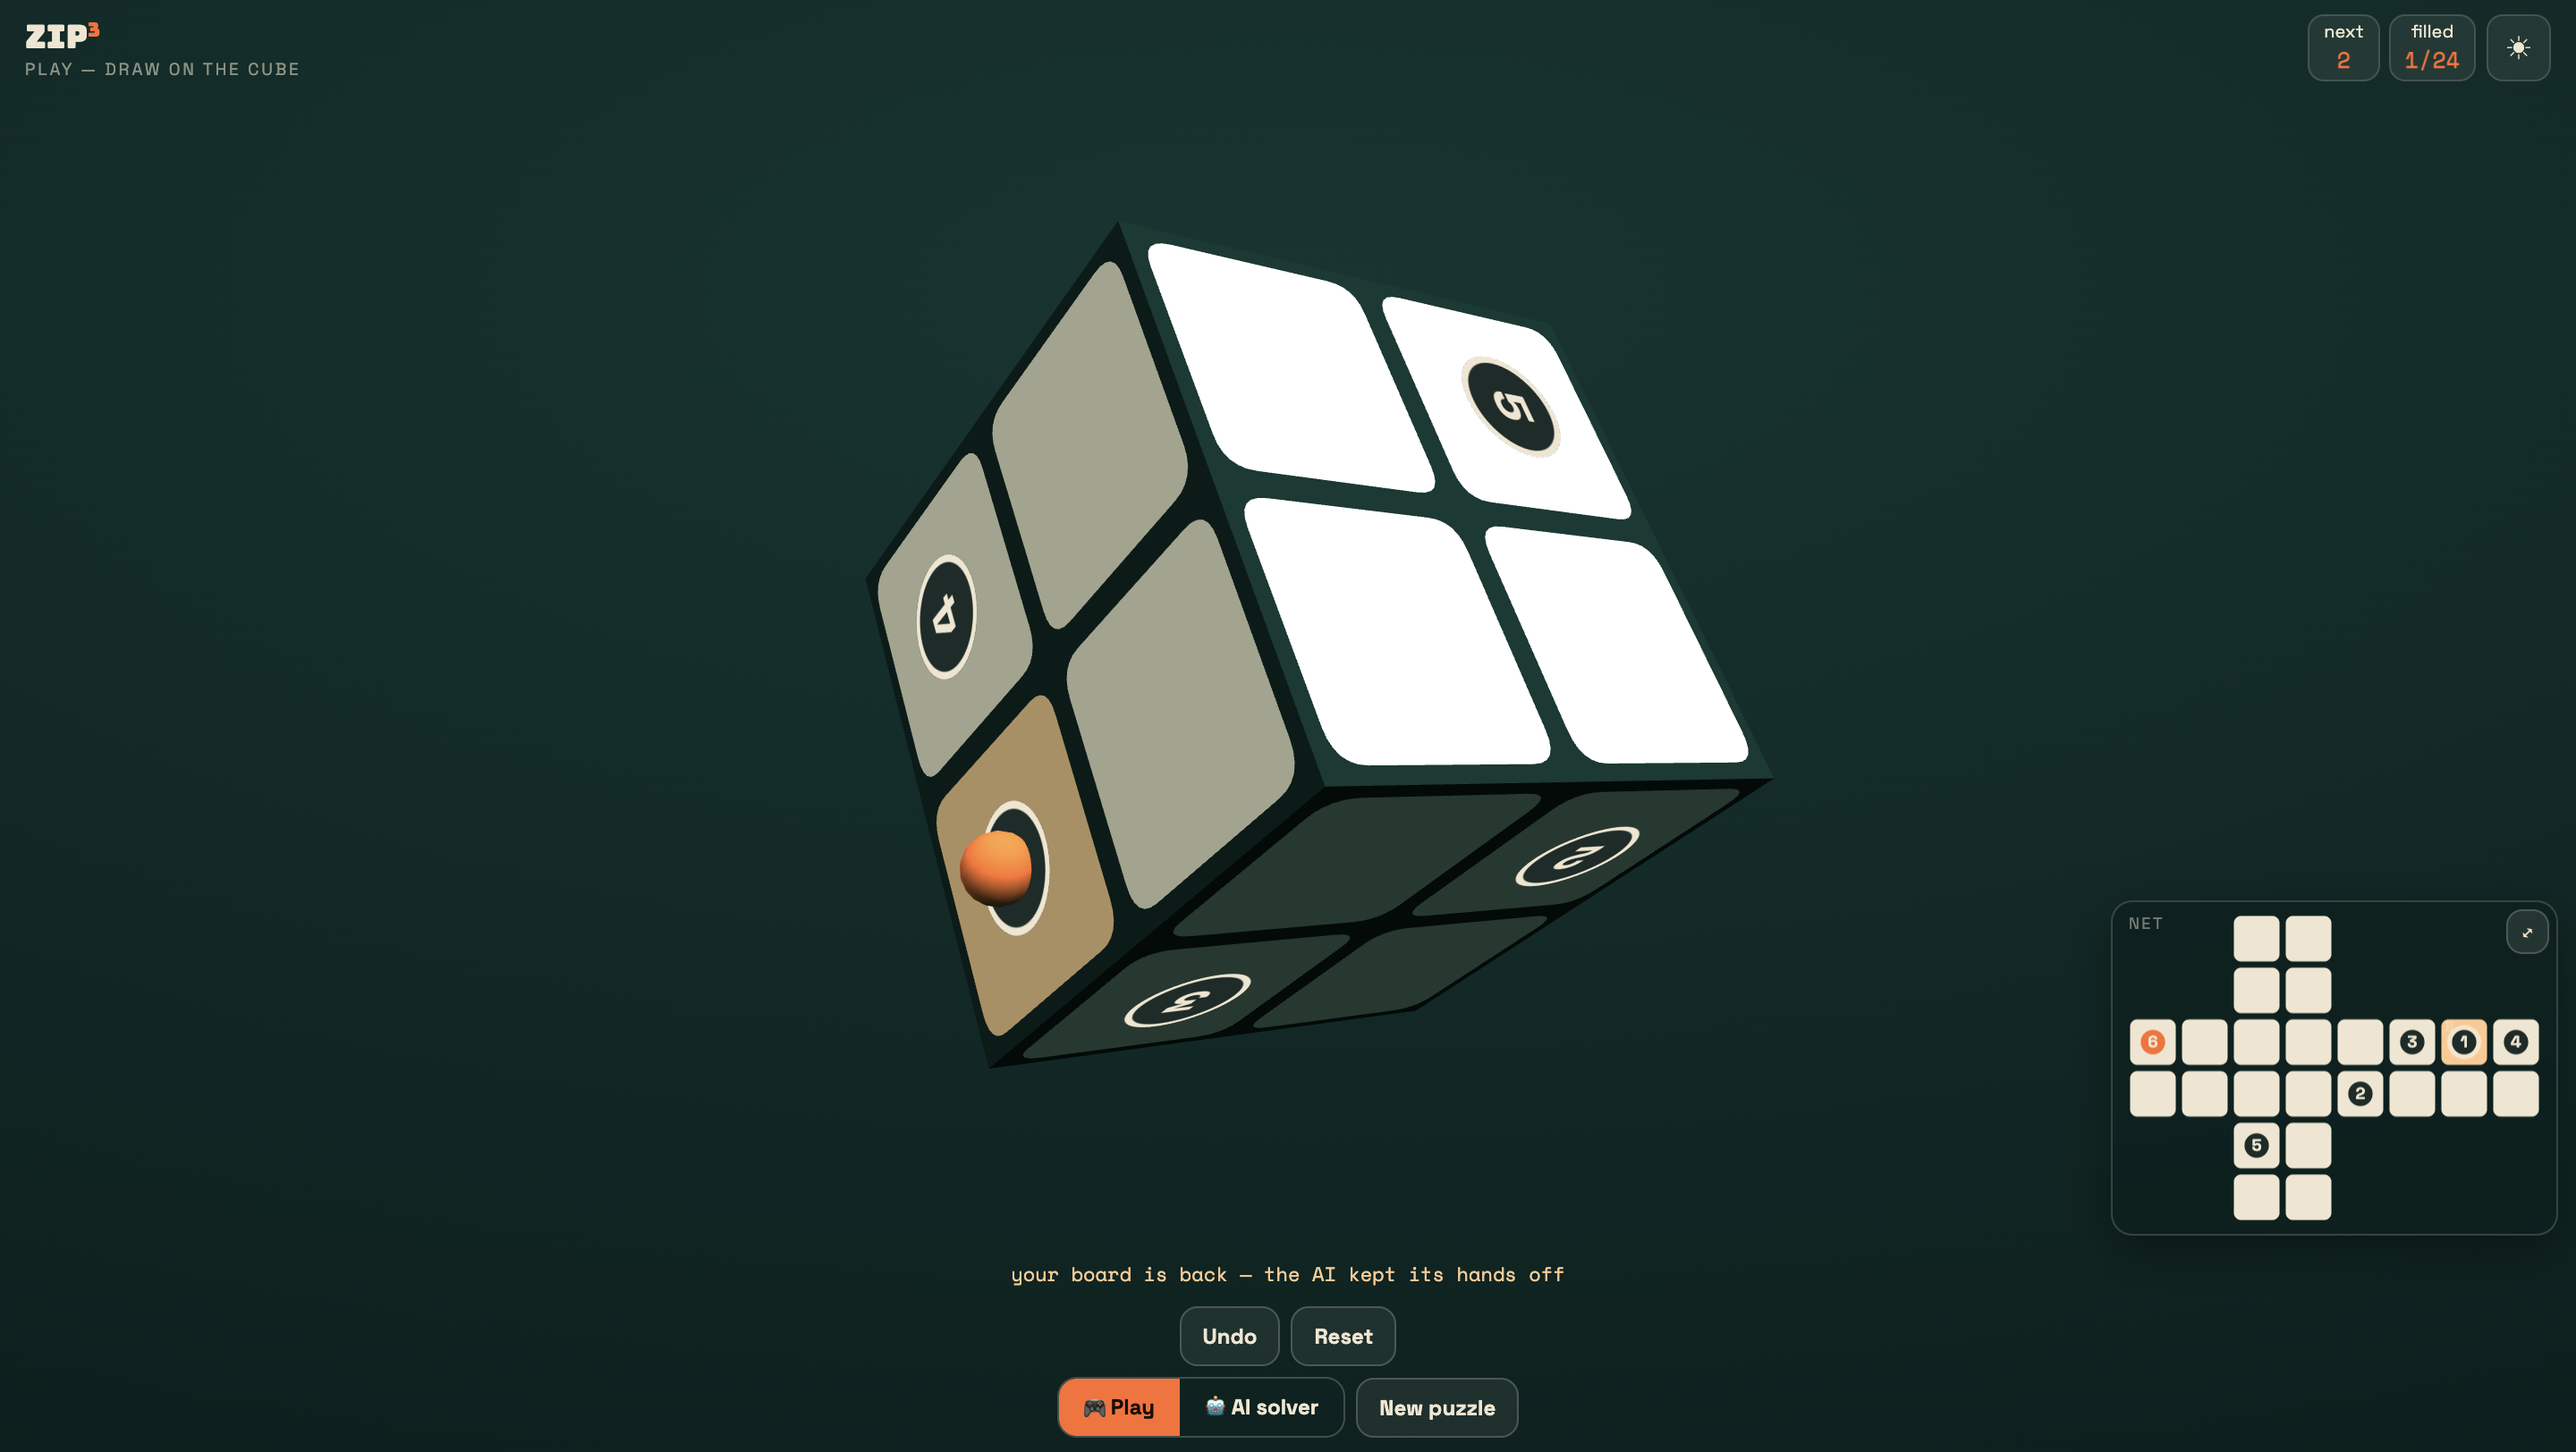
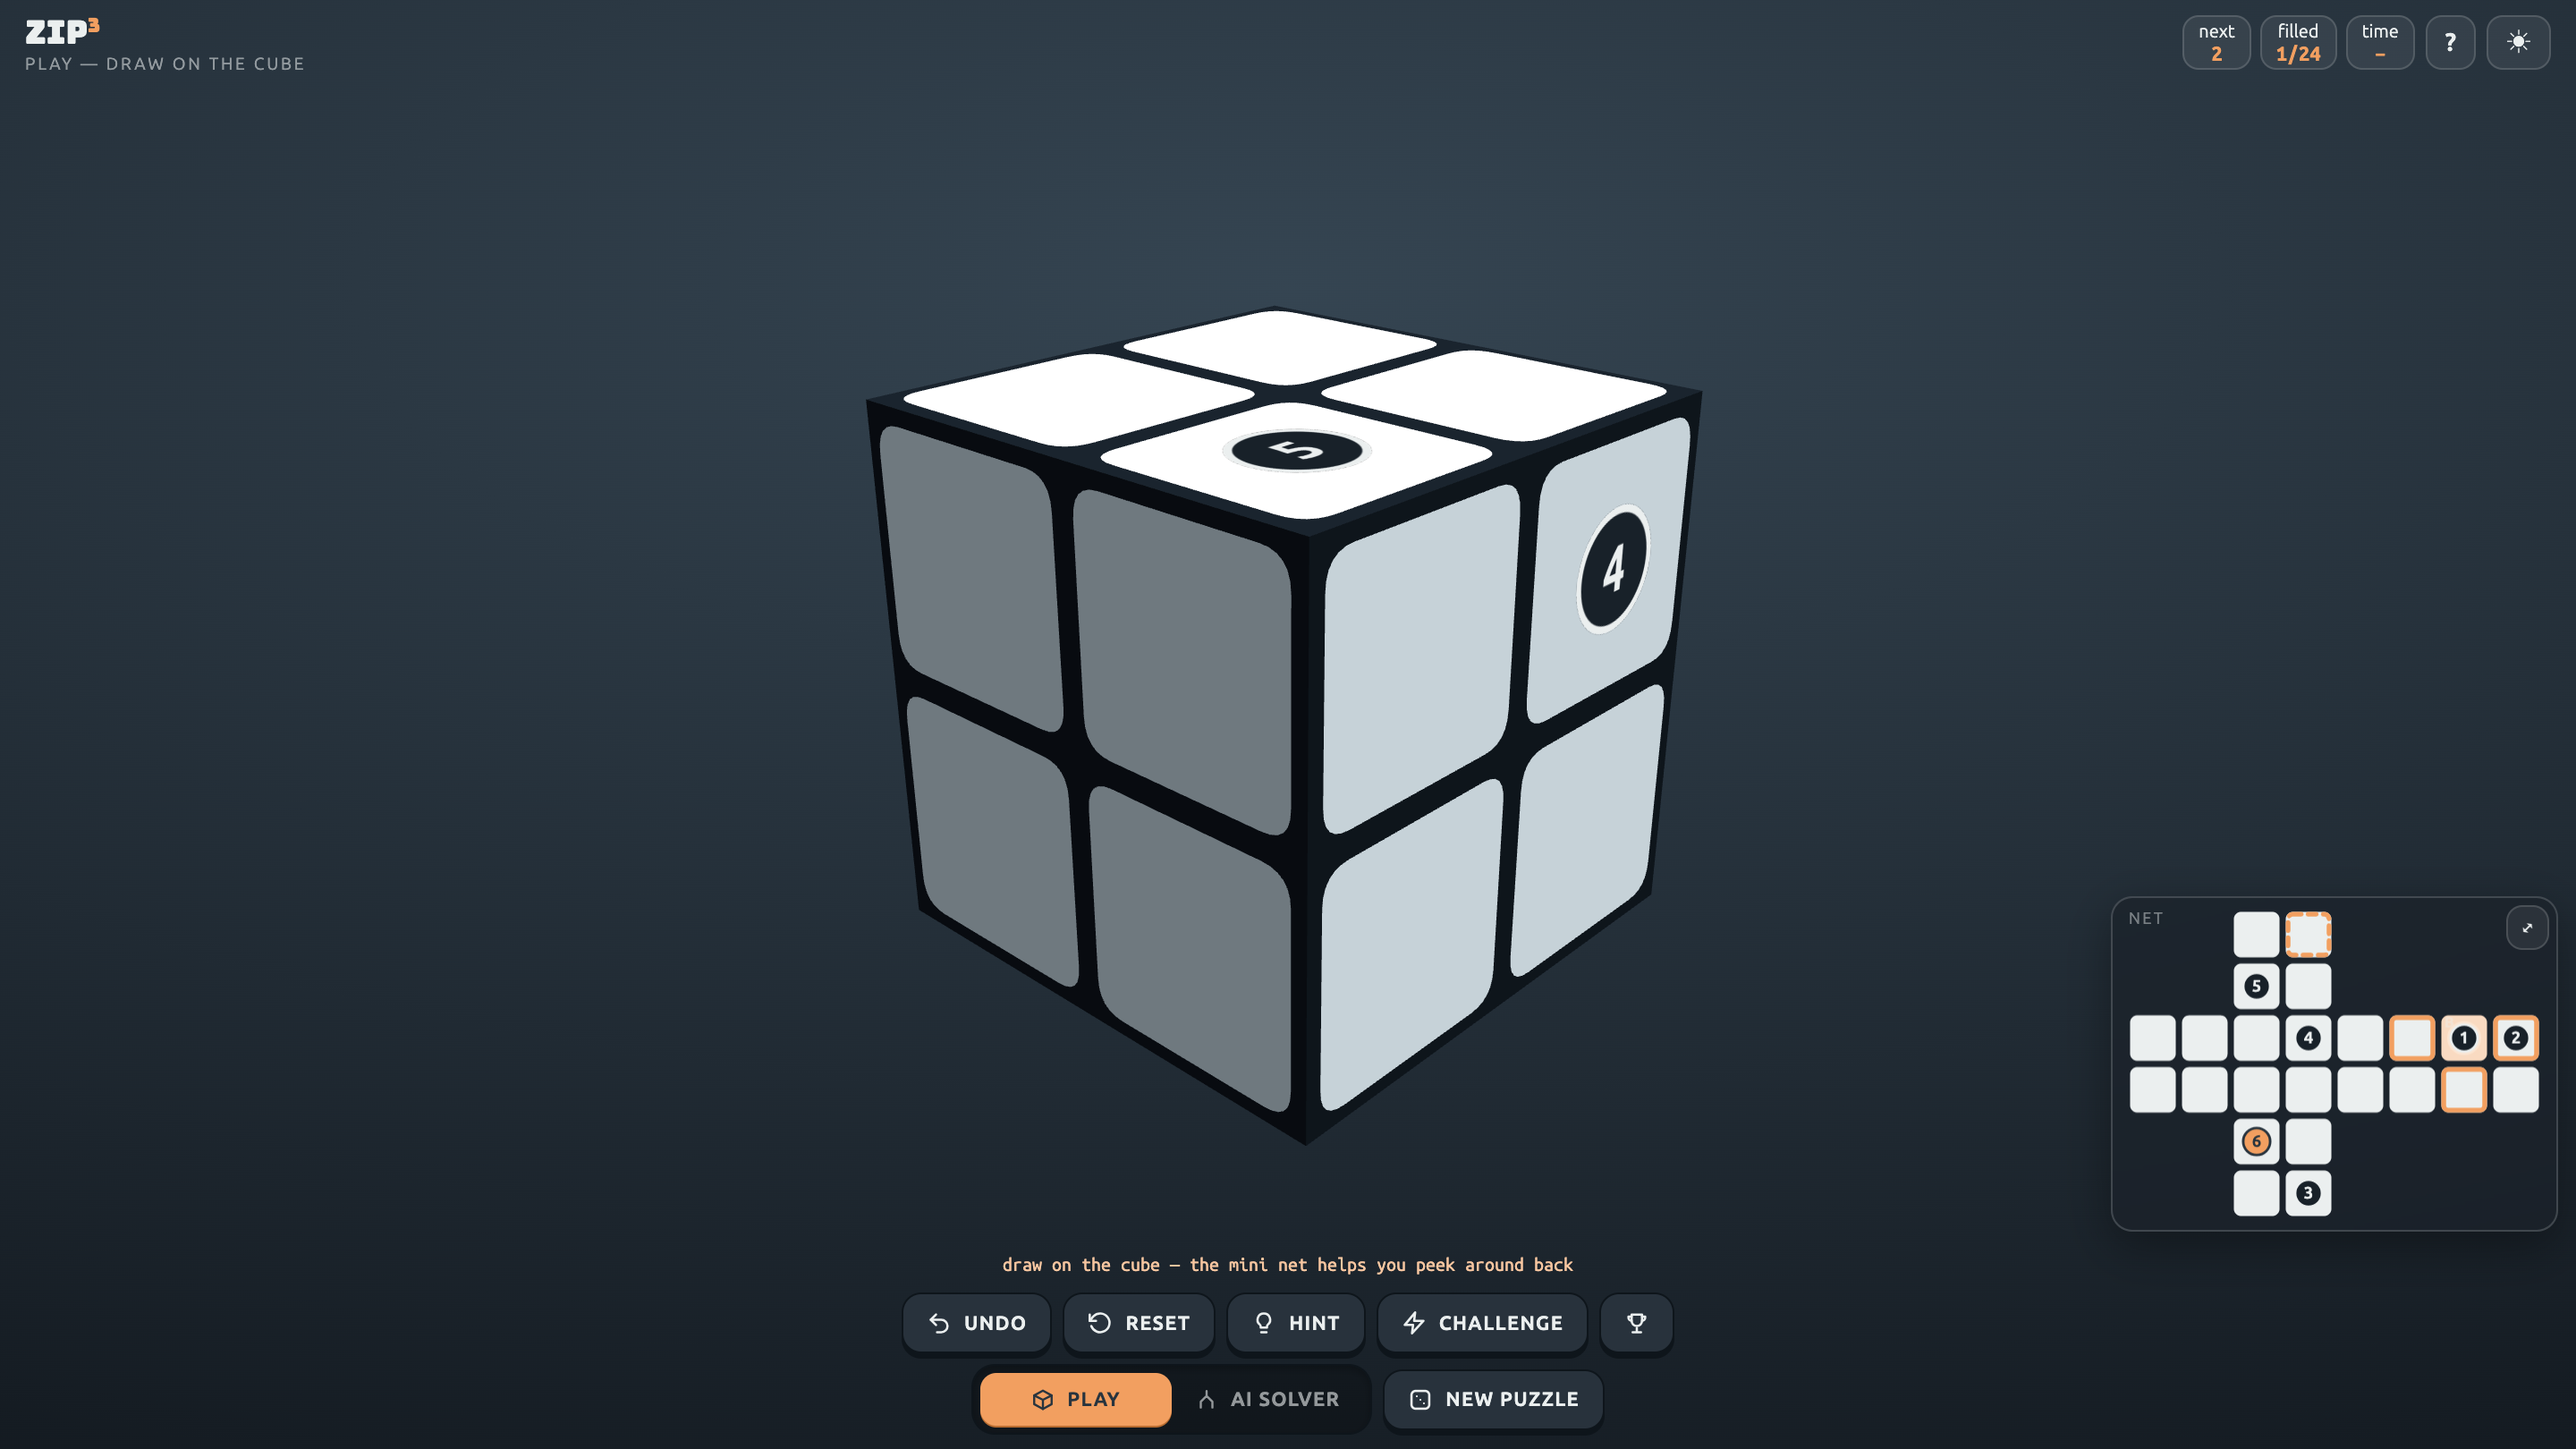
Update README with enhanced image descriptions and add new challenge standings screenshot
- Improved image alt text for clarity on play modes and solver functionality.
- Added a new screenshot for challenge standings to enhance documentation.
- Updated image references to reflect changes in visual presentation.

diff --git a/README.md b/README.md
@@ -4,7 +4,7 @@ A [LinkedIn-Zip](https://www.linkedin.com/games/zip)-style path puzzle, lifted o
 
 The entire game is one self-contained HTML file. No build step, no install, no framework beyond Three.js from a CDN. Open `index.html` in a browser and play.
 
-![Play mode — drawing a path on the 3D cube, with the numbered checkpoints and the net mini-map](docs/images/play-dark.png)
+![Play mode — dark theme, drawing a path on the 3D cube with numbered checkpoints and the net mini-map](docs/images/play-dark.png)
 
 ---
 
@@ -57,11 +57,13 @@ Zip Cube ⚡ first try 0:47.3
 
 No accounts — results travel by copy-paste. And if the deployment has the leaderboard configured, every challenge link also gets a **shared leaderboard**: solve the puzzle, join with a nickname on your first win, and the win card (plus the 🏆 button while a challenge is armed) shows everyone's results for that code, ranked by first-try time. Without a network or backend the game plays exactly the same — the board just says "leaderboard unavailable".
 
+![Challenge standings — per-puzzle leaderboard ranked by first-try time, with puzzle code and player results](docs/images/challenge.png)
+
 ## The AI solver
 
 Switch to **🤖 AI solver** at any moment and the solver picks up *from your current position* — it never touches your board; switch back and your hand-drawn path is exactly where you left it.
 
-![Solver mode after finding a solution — the green path wrapped around the cube and traced on the net, the search tree showing backtracked and pruned branches, and counters reading 1,773 pushes / 960 backtracks / 790 prunes](docs/images/solver.png)
+![Solver mode mid-search — path growing on the cube and net, search tree with backtracked and pruned branches, and live push/backtrack/prune counters](docs/images/solver.png)
 
 It runs a depth-first search with one classic pruning rule, and every decision is animated across three synchronized views:
 
@@ -79,7 +81,7 @@ The search runs to completion **up front** and records a trace of events; the an
 
 ## Theming
 
-![Light theme — the same board on cool paper-white, toggled with the ☀/☾ button in the header](docs/images/play-light.png)
+![Play mode — light theme, same board on cool paper-white, toggled with the ☀/☾ button in the header](docs/images/play-light.png)
 
 All colors — CSS chrome, Three.js materials, badge textures, both 2D canvases — resolve through **semantic design tokens** (CSS custom properties) defined once in `:root` and overridden per theme:
 
@@ -97,7 +99,7 @@ JS reads the tokens once per switch (`readTokens()` → cached `T` object), reti
 index.html                       the whole game (markup, styles, logic)
 api/leaderboard.js               per-challenge leaderboard (Vercel function + Upstash Redis)
 docs/puzzle-and-solver.md        deep dive: generator & solver algorithms
-docs/images/                     README screenshots
+docs/images/                     README screenshots (play, solver, challenge standings)
 docs/superpowers/specs/          design docs
 .claude/skills/verify/SKILL.md   headless-Chrome verification recipe
 CLAUDE.md                        architecture notes for AI-assisted development
